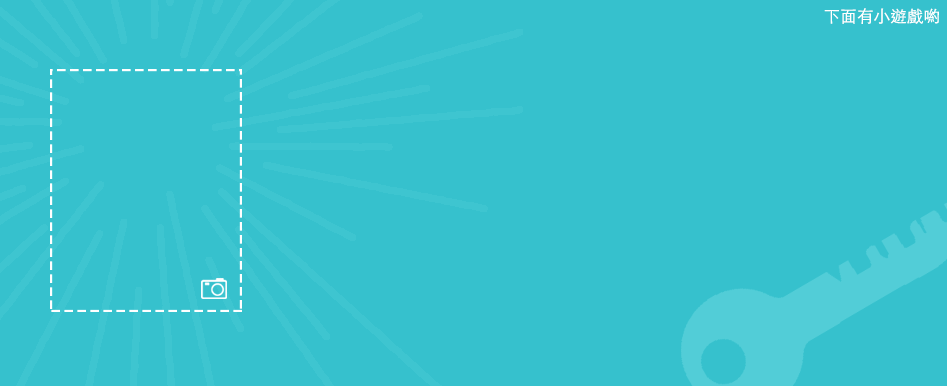
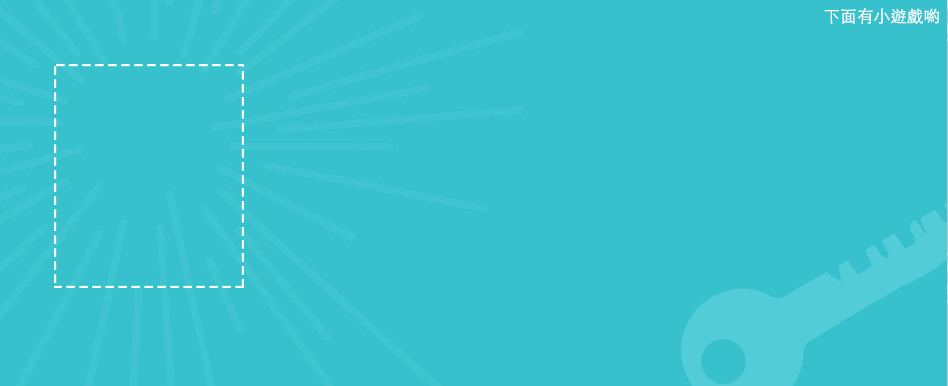
change user-top-back image.

Changed region(s): [[0.0306, 0.1554, 0.2756, 0.8083], [0.8574, 0.0, 1.0, 0.0622]]

diff --git a/public/css/user.css b/public/css/user.css
@@ -14,13 +14,13 @@
 	position: relative;
 	width: 190px;
 	height: 320px;
-	top: 70px;
-	left: 50px;
+	top: 67px;
+	left: 57px;
 	float: left;
 }
 
 #user-img{
-	width: 190px;
+	width: 184px;
 	height: 240px;
 }
 
